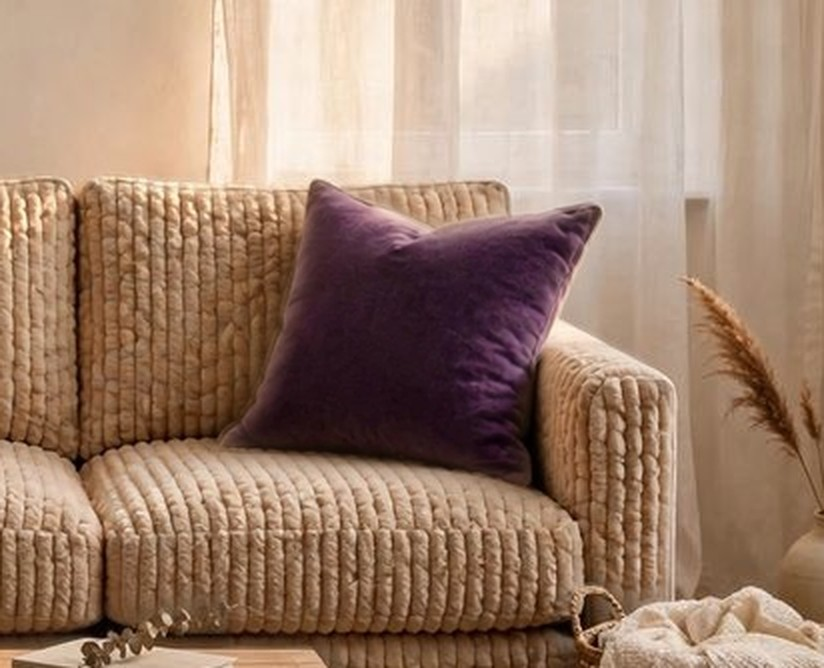
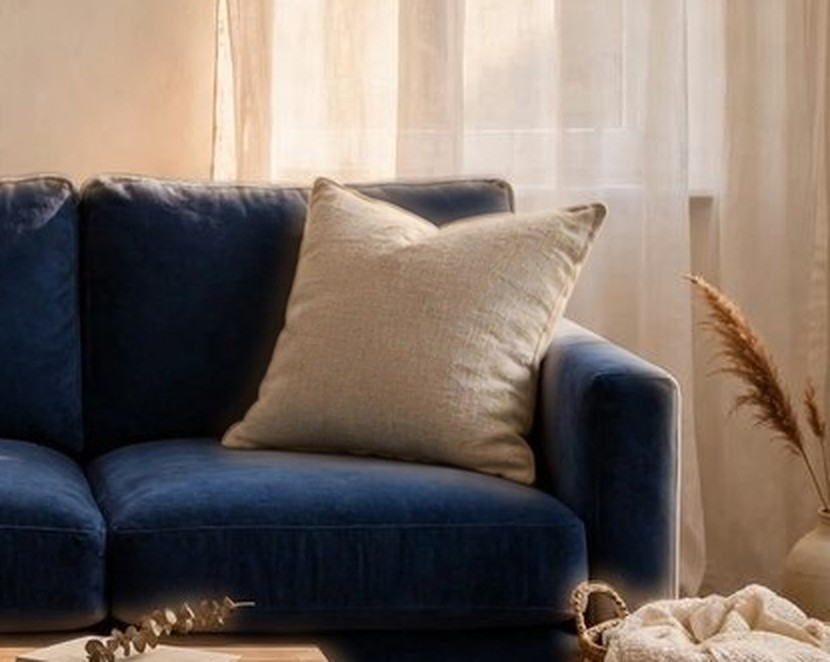
Landing: regenerate the three hero looks with the current engine; mix look moves to Midnight Sapphire + geo/clay/oat pillows; fallback hero matches the warm look

diff --git a/scripts/generate_hero_looks.py b/scripts/generate_hero_looks.py
@@ -30,8 +30,11 @@ QC = os.path.join(BASE_DIR, "storyboard/hero_qc")
 LOOKS = {
     "warm": {"sofa": "FA-AC-01", "cushions": "FA-AC-08"},
     "calm": {"sofa": "FA-AC-05", "cushions": "FA-AC-03"},
-    "mix": {"sofa": "FA-NL-04",
-            "pillows": ["FA-AC-13", "FA-AC-06", "FA-AC-02"]},
+    # Midnight Sapphire: the chunky Sand Ceremony chenille rendered as an
+    # oversized basket weave; a plain velvet lets the three pillows carry
+    # the mix (geometric print, clay, oat).
+    "mix": {"sofa": "FA-VL-04",
+            "pillows": ["FA-AC-13", "FA-AC-04", "FA-AC-03"]},
 }
 
 
